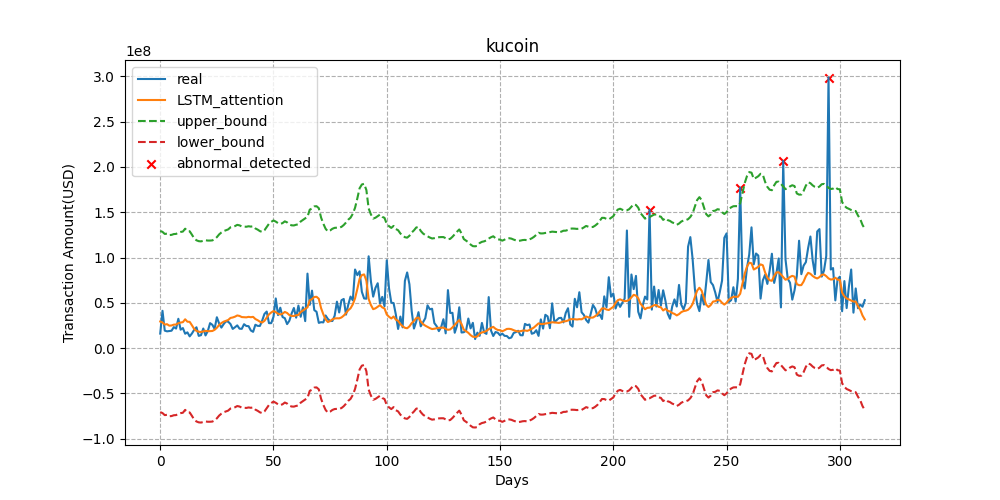
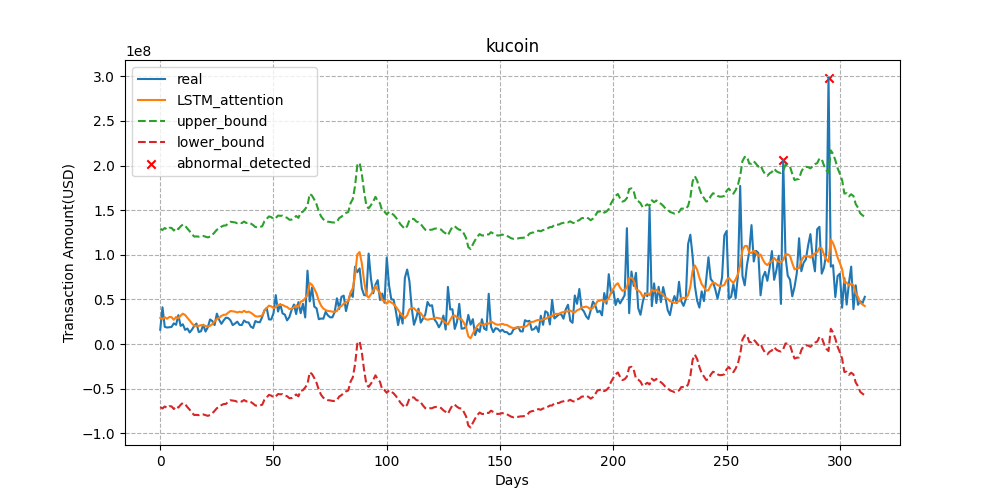
update

diff --git a/abnormal_detection.py b/abnormal_detection.py
@@ -92,7 +92,7 @@ class attention(Layer):
 def model_lstm_att(time_steps, input_dim, n_units):
     K.clear_session()  # 清除之前的模型，省得压满内存
     model_input = Input(shape=(time_steps, input_dim))
-    x = LSTM(n_units, return_sequences=True)(model_input)
+    x = Bidirectional(LSTM(n_units, return_sequences=True))(model_input)
     x = attention()(x)
     x = Dense(1)(x)
     model = Model(model_input, x)
@@ -298,6 +298,7 @@ def cal_date():
             print(otherStyleTime)
 
 if __name__=='__main__':
-    # lstm(76, 5, 111)
+    lstm()
+    # lstm(106, 6, 74)
     # parameter_sensitivity("seq_len", [5, 10, 20, 40, 80])
-    cal_date()
+    # cal_date()

diff --git a/DE_abnormal_detection.py b/DE_abnormal_detection.py
@@ -330,12 +330,14 @@ if __name__=='__main__':
         temp_rmse, temp_mae, temp_mape = lstm(round(v0), round(v1), round(v2))
         ret = 0
         for jj in range(len(temp_rmse)):
-            ret += temp_rmse[jj]+temp_mae[jj]+temp_mape[jj]
+            ret += temp_rmse[jj]
         return ret
-
+    start = time.clock()
     de = DE(func=f, n_dim=3, size_pop=20, max_iter=100, lb=[8, 5, 8], ub=[128, 80, 128])
     best_x, best_y = de.run()
+    elapsed = (time.clock() - start)
     print('best_x:', best_x, '\n', 'best_y:', best_y)
+    print("Time used:", elapsed)
     # lstm()
     # parameter_sensitivity("seq_len", [5, 10, 20, 40, 80])
     # cal_date()
